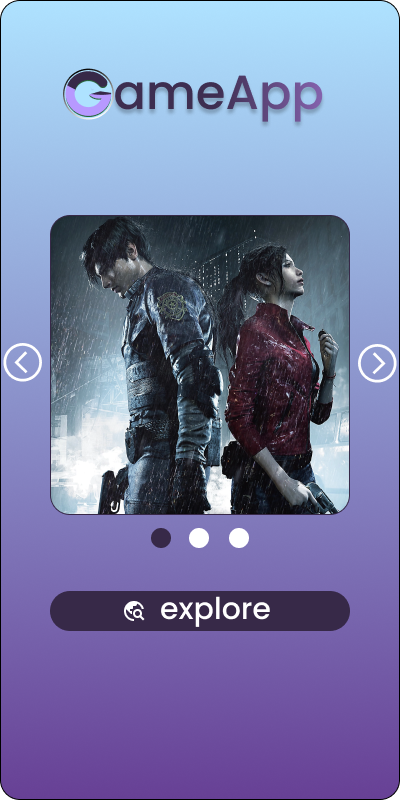
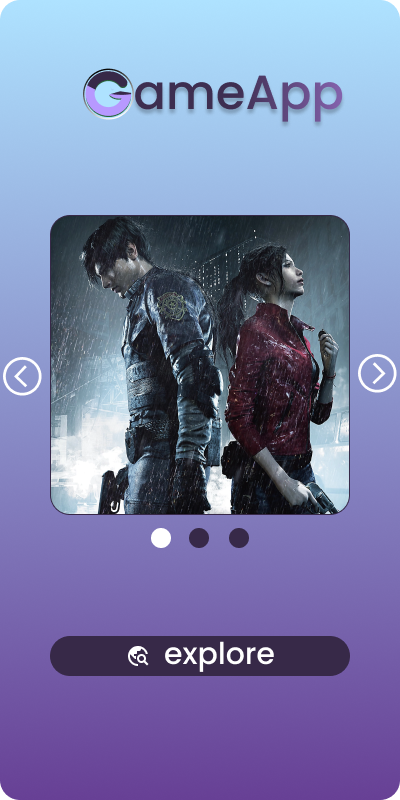
se añade catalogue.html y se modifica el master.css

diff --git a/07-layout/css/master.css b/07-layout/css/master.css
@@ -13,6 +13,21 @@
     --color-six:#000000;
     
   }
+
+  /* ------------------- */ 
+    /*P R E L O A D*/
+/* ------------------- */
+body:after {
+    position: absolute;
+    height: 0;
+    overflow: hidden;
+    width: 0;
+    z-index: -1;
+    content: url(../images/btn-hover.png.png)
+             url(../images/btn-active.png.png);
+    
+}
+
 /* ------------------- */ 
     /*G E N E R A L*/
 /* ------------------- */
@@ -34,6 +49,22 @@ body {
         width: 400px;
     }
   }
+  body.catalogue-main {
+    background-color: var(--color-fourth);
+    font-family: var(--ff-body);
+    font-weight: 100;
+    font-style: normal;
+    display: flex;
+    justify-content: center;
+    align-items: center;
+    min-height: 100vh;
+    main {
+        background: url(../images/btn-catalogue-main.png) no-repeat center;        
+        height: 800px;
+        overflow: hidden;
+        width: 400px;
+    }
+}
 
 /* ------------------- */
 /*01- W E L C O M E*/
@@ -139,4 +170,170 @@ main.welcome {
     }
 
 
+}
+
+
+/* ------------------- */
+/*02- C A T A L O G U E*/
+/* ------------------- */
+
+main.catalogue{
+    header{
+        display: flex;
+        justify-content: center;
+        align-items: center;
+        margin-block-start: 2.7rem;
+        
+    }
+
+    h2 {
+        font-family: var(--ff-body);
+        font-size: 25px;
+        color: #FFFFFF;
+        margin-bottom: auto;
+    }
+    section.filter{
+        display: flex;
+        justify-content: center;
+        align-items: center;
+        margin-top: 30px;       
+     
+        input.btn-filter {
+            background: url(../images/filter-icon.svg)
+            no-repeat 250px;
+            display: flex;
+            justify-content: center;
+            align-items: center;         
+            height: 50px;
+            width: 300px;
+            border-radius: 25px;
+            border:3px solid #FFFFFF;
+            color: #FFFFFF;
+            text-indent: 30px;
+            font-size: 25px;
+            background-color: var(--color-third);
+            outline: none;
+            
+
+            &::placeholder {
+                color: white;
+            }
+        }
+      
+    }
+    section.owl-carousel {
+        div.owl-item {            
+            display: flex;
+            align-items: center;
+            justify-content: center;
+            margin-top: 0rem;
+            
+            img.catalogue {
+                height: 140px;
+                width: 140px;
+            }
+        }  
+        div.owl-nav {
+            position: relative;
+            top: -99px;
+            display: flex;
+            justify-content: space-between;
+            button {
+                transition: transform 0.2s ease-in;
+                span {
+                    display: flex;
+                    height: 40px;
+                    width: 40px;
+                    text-indent: -9999px;
+                }
+            }
+            button:is(:hover) {
+                background-color: transparent;
+            }
+            button.owl-prev {
+                span {
+                   background: url(../images/vector-prev.svg) no-repeat center; 
+                }
+            }
+            button.owl-prev:hover {
+                transform: scale(1.1) translateX(-4px);
+            }
+            button.owl-next {
+                span {
+                   background: url(../images/vector-next.svg) no-repeat center; 
+                }
+            }    
+            button.owl-next:hover {
+                transform: scale(1.1) translateX(4px);
+            }
+        }    
+}
+
+}
+div.containerCarrusel {
+        
+    
+    h2.category {
+      
+      font-size: 24px;
+      text-indent: 30px;
+      margin-top: 0.1rem;
+    }
+  }
+
+  section.owl-carousel {
+    display: flex;
+    justify-content: center;
+    align-items: center;
+    margin-top: 0.2rem;
+    figure {
+      h2 {
+        font-family: var(--ff-heading);
+        font-size: 20px;
+      }
+    }
+
+
+    p {
+      font-family: var(--ff-body);
+      color: var(--color-five);
+    }
+
+    div.owl-item {
+      display: flex;
+      flex-direction: center;
+      justify-content: center;
+      margin-top: 1rem;
+
+      img.catalogue {
+        height: 140px;
+        width: 140px;
+        margin: 0px;
+      }
+    }
+
+  }
+
+  
+footer{
+    display: flex;
+    justify-content: center;
+    align-items: center;
+    a:is(:link, :visited){
+        background: url(../images/btn.png.png) no-repeat center;
+        height: 60px;            
+        display: flex;
+        justify-content: center;
+        align-items: center;
+        margin-top: 0.8rem;
+        transition: all 0.3s ease-in;
+        width: 300px;            
+    }
+    a:is(:hover){
+        background: url(../images/btn-hover.png.png) no-repeat center;
+        transform: scale(1.02) translateY(-5px);
+    }
+    a:is(:active){
+        background: url(../images/btn-active.png.png) no-repeat center;
+    }
 }

diff --git a/07-layout/catalogue.html b/07-layout/catalogue.html
@@ -1,0 +1,106 @@
+<!DOCTYPE html>
+<html lang="en">
+
+<head>
+    <meta charset="UTF-8">
+    <meta name="viewport" content="width=device-width, initial-scale=1.0">
+    <title>GameApp - Catalogue</title>
+    <link rel="stylesheet" href="css/reset.css">
+    <link rel="stylesheet" href="css/fonts.css">
+    <link rel="stylesheet" href="css/master.css">
+    <link rel="stylesheet" href="css/owl.carousel.min.css">
+    <link rel="stylesheet" href="css/owl.theme.default.min.css">
+
+</head>
+
+<body class="catalogue-main">
+    <main class="catalogue">
+        <header>
+            <img src="images/logo-welcome.sgv.svg" alt="Logo">
+            <img src="images/menu-icon.svg" alt="Logo">
+        </header>
+        <section class="filter">
+            <input class="btn-filter" type="text" placeholder="Filter">
+        </section>
+        <div class="containerCarrusel">
+        <h2 class="category" >Category 01:</h2>
+        <section class="owl-carousel owl-theme">
+        <figure>
+            <a href="view-game.html">
+            <img class="catalogue" src="images/slide01.png.png" alt="slide01">
+            </a>
+            <h2>
+                Tittle 01
+              </h2>
+              <p>
+                Lorem ipsum dolor sit amet.
+              </p>
+        </figure>
+        <figure>
+            <a href="view-game.html">
+            <img class="catalogue" src="images/catalogue1.png" alt="slide02">
+            </a>
+            <h2>
+                Tittle 02
+              </h2>
+              <p>
+                Lorem ipsum dolor sit amet.
+              </p>
+
+             
+        </figure>
+        </section>
+        <h2 class="category">Category 02:</h2>
+        <section class="owl-carousel owl-theme">
+          <figure>
+            <a href="">
+              <img class="catalogue" src="images/catalogue2.png" alt="Slide01">
+            </a>
+            <h2>
+              Tittle 03
+            </h2>
+            <p>
+              Lorem ipsum dolor sit amet.
+            </p>
+          </figure>
+          <figure>
+            <a href="">
+              <img class="catalogue" src="images/catalogue3.png" alt="Slide01">
+            </a>
+            <h2>
+              Tittle 04
+            </h2>
+            <p>
+              Lorem ipsum dolor sit amet.
+            </p>
+          </figure> 
+        
+    </div>
+    </main>
+
+    <script src="js/jquery-3.7.1.min.js"></script>
+    <script src="js/owl.carousel.min.js"></script>
+    <script>
+
+        $(document).ready(function () {
+            var owl = $('.owl-carousel');
+            owl.owlCarousel({
+                items: 2,
+                loop: true,
+                margin: 10,
+                autoplay: true,
+                autoplayTimeout: 1000,
+                dots:false,
+                autoplayHoverPause: true
+            });
+            $('.play').on('click', function () {
+                owl.trigger('play.owl.autoplay', [1000])
+            })
+            $('.stop').on('click', function () {
+                owl.trigger('stop.owl.autoplay')
+            })
+        })
+    </script>
+</body>
+
+</html>

diff --git a/07-layout/index.html b/07-layout/index.html
@@ -22,7 +22,7 @@
             <img src="images/slide01.png.png" alt="slide03">
         </section>
         <footer>
-            <a href="" alt="Explore">
+            <a href="catalogue.html" alt="Explore">
                 <img src="images/content-btn-welcome.svg.svg" alt="Explore">
             </a>
         </footer>
